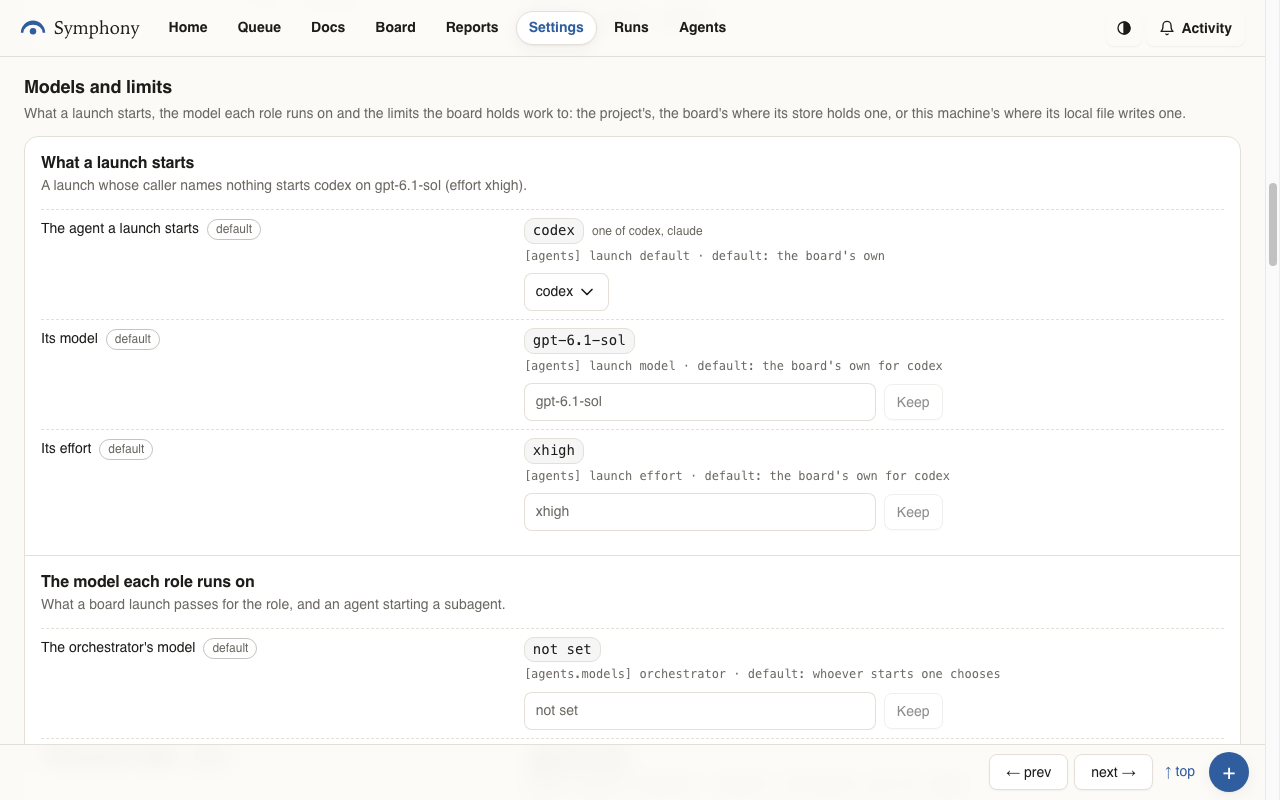
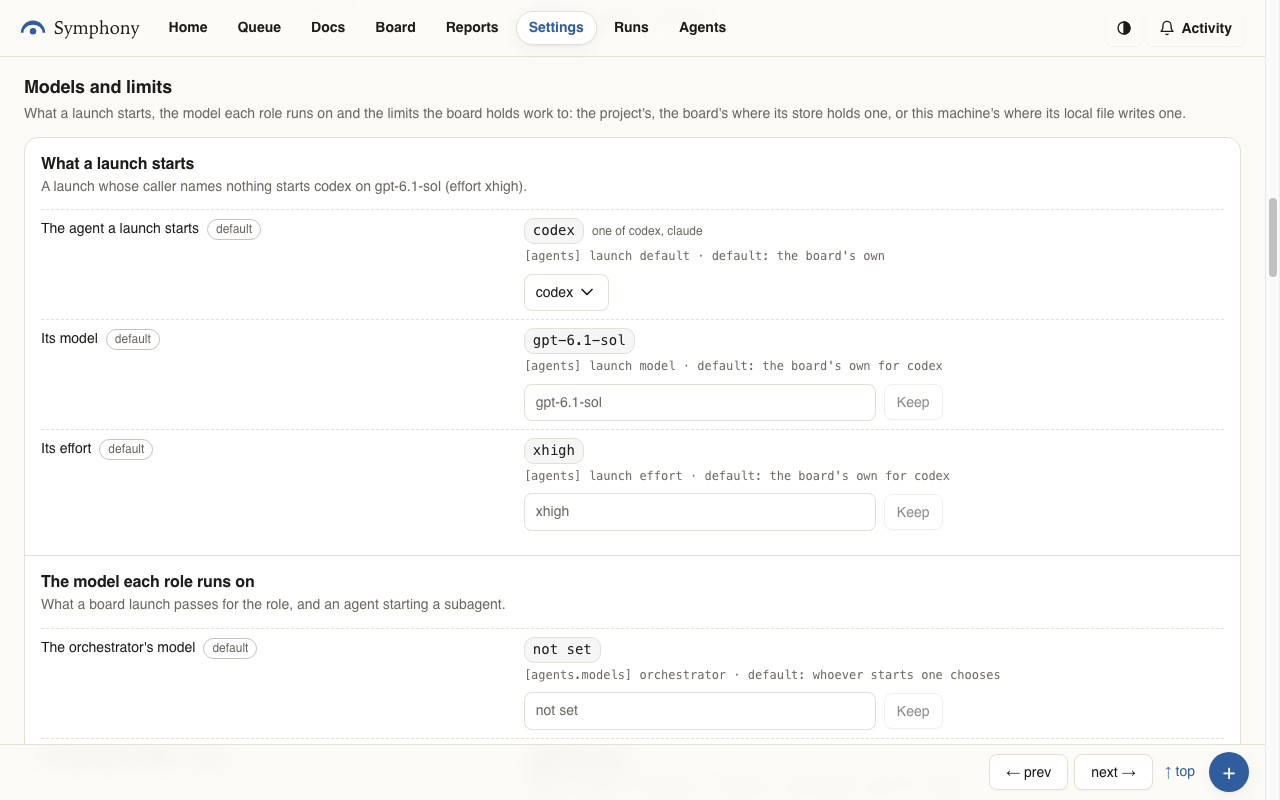
app/agent-off: [agents.launch.on] a table of its own
The agents' switches are the table [agents.launch.on] the project file
reads (FileSwitches: codex, claude), so a Settings row of either is a key
the reference lists, and another agent's key is refused by name and line
as any key the Symphony does not know; a value that is no switch, or one
turning off the default, the load refuses as the board says it.
PROJECT_FILE.md gives the table its own section. The settings pictures
are retaken on main as merged.

diff --git a/crates/symphony/src/project/file.rs b/crates/symphony/src/project/file.rs
@@ -73,7 +73,7 @@ impl File {
                 _ => named(&[], key, key.clone()),
             })
             .collect();
-        let tables: [(&str, &[&str], &Unknown); 12] = [
+        let tables: [(&str, &[&str], &Unknown); 13] = [
             ("[project]", &["project"], &self.project.unknown),
             ("[plugins]", &["plugins"], &self.plugins.unknown),
             ("[theme]", &["theme"], &self.theme.unknown),
@@ -82,6 +82,11 @@ impl File {
                 "[agents.launch]",
                 &["agents", "launch"],
                 &self.agents.launch.unknown,
+            ),
+            (
+                "[agents.launch.on]",
+                &["agents", "launch", "on"],
+                &self.agents.launch.on.unknown,
             ),
             (
                 "[agents.models]",
@@ -232,15 +237,28 @@ pub(super) struct FileStamps {
     pub(super) unknown: Unknown,
 }
 
-/// The `[agents.launch]` table. Its `on`, each agent's switch, the board reads itself
-/// (`symphony_board::launch::Defaults`), and [`super::Project::parse`] refuses what it refuses.
+/// The `[agents.launch]` table, its agents' switches the table [`FileSwitches`].
 #[derive(Default, Deserialize)]
 #[serde(default)]
 pub(super) struct FileLaunch {
     pub(super) default: Option<String>,
     pub(super) model: Option<String>,
     pub(super) effort: Option<String>,
-    pub(super) on: Option<toml::Value>,
+    pub(super) on: FileSwitches,
+    #[serde(flatten)]
+    pub(super) unknown: Unknown,
+}
+
+/// The `[agents.launch.on]` table: each agent's switch, which the board reads itself
+/// (`symphony_board::launch::Defaults`), each known here by the agent's name so another is refused
+/// by name and line. Their values are any the file writes, as the limits' are: one that is no
+/// switch, or one turning off the launch default, [`super::Project::parse`] refuses as the board
+/// says it.
+#[derive(Default, Deserialize)]
+#[serde(default)]
+pub(super) struct FileSwitches {
+    pub(super) codex: Option<toml::Value>,
+    pub(super) claude: Option<toml::Value>,
     #[serde(flatten)]
     pub(super) unknown: Unknown,
 }

diff --git a/crates/symphony/tests/project/settings.rs b/crates/symphony/tests/project/settings.rs
@@ -1351,3 +1351,26 @@ fn each_agent_says_how_many_of_its_sessions_run_and_that_they_keep_running_when_
             .ends_with(" How many of its sessions run cannot be read: connection refused.")
     );
 }
+
+#[test]
+fn a_switch_of_no_agent_or_that_is_no_switch_is_refused_by_the_load_with_its_line() {
+    let tree = Tree::new();
+    let refused = |text: &str| symphony::project::Project::checked(&tree.root, text).unwrap_err();
+    // An agent the table does not know, by name and line, as any key the Symphony does not know.
+    assert_eq!(
+        refused("[agents.launch.on]\ngemini = false\n"),
+        "symphony.toml: [agents.launch.on] gemini (line 2) is not a setting the Symphony knows"
+    );
+    // A value that is no switch, as the board says it.
+    assert_eq!(
+        refused("[agents.launch]\ndefault = \"claude\"\n\n[agents.launch.on]\ncodex = \"maybe\"\n"),
+        "symphony.toml: [agents.launch.on] codex (line 5) is \"maybe\"; a switch is true (on) or \
+         false (off)"
+    );
+    // Both switches written, the default's on: the file loads.
+    symphony::project::Project::checked(
+        &tree.root,
+        "[agents.launch]\ndefault = \"claude\"\n\n[agents.launch.on]\ncodex = false\nclaude = true\n",
+    )
+    .unwrap();
+}

diff --git a/crates/symphony/tests/project/reference.rs b/crates/symphony/tests/project/reference.rs
@@ -24,7 +24,7 @@ const SOURCES: [&str; 3] = [
 /// The hosted board's settings, which the board reads and judges itself.
 const EXTERNAL: &str = "crates/tasks/src/pg/external.rs";
 
-const TABLES: [(&str, &str, &str); 23] = [
+const TABLES: [(&str, &str, &str); 24] = [
     (
         "crates/symphony-api/src/workflow.rs",
         "Definition",
@@ -46,6 +46,7 @@ const TABLES: [(&str, &str, &str); 23] = [
     (SOURCES[2], "FileTheme", "[theme]"),
     (FILE, "FileAgents", "[agents]"),
     (FILE, "FileLaunch", "[agents.launch]"),
+    (FILE, "FileSwitches", "[agents.launch.on]"),
     (FILE, "FileModels", "[agents.models]"),
     (FILE, "FileVerdicts", "[verdicts]"),
     (FILE, "FileLand", "[land]"),

diff --git a/docs/operations/PROJECT_FILE.md b/docs/operations/PROJECT_FILE.md
@@ -362,9 +362,18 @@ limits` prints what holds and where it came from.
 | Key | Default | What it sets |
 | --- | --- | --- |
 | `default` | `"codex"` | the agent a launch starts: `"codex"` or `"claude"`, a blank one the default, any other refused |
-| `on` | every agent on | `[agents.launch.on]`: each agent's switch, `codex = false` turning Codex off; an agent left out is on |
+| `on` | below | the table `[agents.launch.on]` |
 | `model` | the board's own for that agent | its model |
 | `effort` | the board's own for that agent | its effort |
+
+## `[agents.launch.on]`
+
+Each agent's switch: `false` turns it off, and an agent left out is on.
+
+| Key | Default | What it sets |
+| --- | --- | --- |
+| `codex` | `true` | whether a launch, the staffing pass and a restore may start Codex: `true` or `false`, any other refused |
+| `claude` | `true` | whether they may start Claude Code: `true` or `false`, any other refused |
 
 An agent turned off starts nowhere: `just tasks launch` naming it, the staffing pass and a restore
 of a closed pane of it (a reviewer's resume among them) are each refused, naming the agent and

diff --git a/docs/workflow/TASKS.md b/docs/workflow/TASKS.md
@@ -1944,7 +1944,7 @@ assessor = "haiku"
   not hold. A launch of
   an agent whose program this machine lacks on its search path is refused with that reason,
   whatever its switch says
-  ([PROJECT_FILE](../operations/PROJECT_FILE.md#agentslaunch), `crates/tasks/src/launch/off.rs`).
+  ([PROJECT_FILE](../operations/PROJECT_FILE.md#agentslaunchon), `crates/tasks/src/launch/off.rs`).
 - **`just tasks limits`** prints each limit, the pipeline alarm's thresholds
   ([The pipeline alarm](#the-pipeline-alarm)) and each role's model, each with where it came
   from (`[limits] low_volume, line 8`, `[agents] launch model, line 12`, `the board's store
